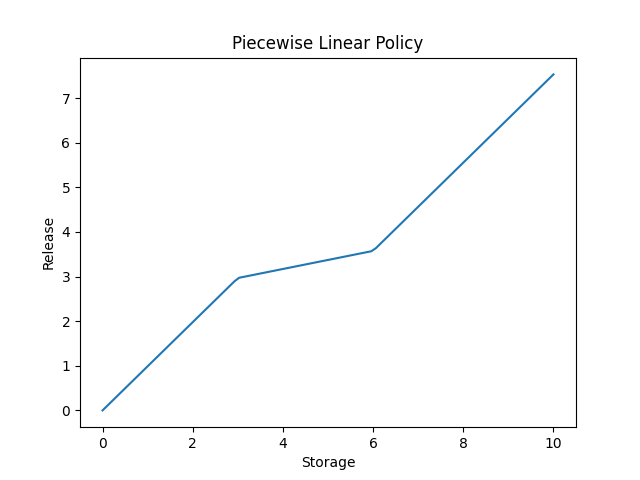
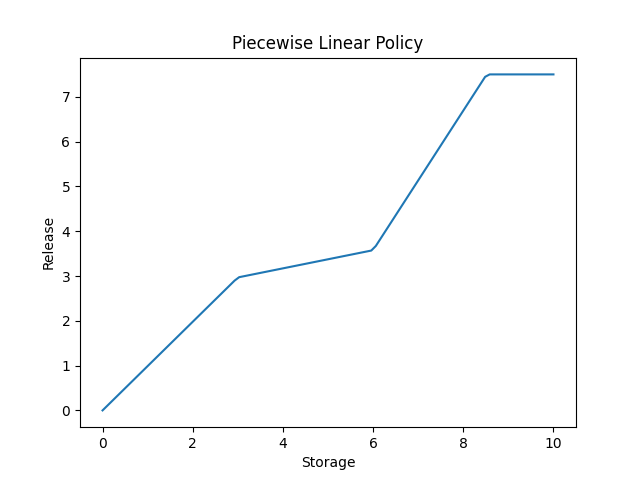
Minor cleanup

diff --git a/methods/policies/linear.py b/methods/policies/linear.py
@@ -74,24 +74,39 @@ class PiecewiseLinear(AbstractPolicy):
         for i in range(1, self.n_segments):
             prev_x = self.segment_x_bounds[i - 1]
             prev_b = self.segment_intercepts[i - 1]
-            self.segment_intercepts.append(prev_b + self.segment_slopes[i - 1] * (self.segment_x_bounds[i] - prev_x))
+            x_delta = self.segment_x_bounds[i] - prev_x
+            b = prev_b + self.segment_slopes[i - 1] * (x_delta)
+            self.segment_intercepts.append(b)
 
-
-    def evaluate(self, S_t):
+    def evaluate(self, X):
         """
         Evaluate the policy function at a given storage level.
 
         Args:
-            S_t (float): The current storage level.
+            X (float): The current storage level.
 
         Returns:
             float: The computed release.
         """
+        segment_idx = None
         for i in range(self.n_segments):
-            if i == self.n_segments - 1 or S_t < self.segment_x_bounds[i + 1]:
-                return self.segment_slopes[i] * (S_t - self.segment_x_bounds[i]) + self.segment_intercepts[i]
+            if X >= self.segment_x_bounds[i] and X < self.segment_x_bounds[i + 1]:
+                segment_idx = i
+                break
+            elif X >= self.Reservoir.capacity:
+                segment_idx = self.n_segments - 1
+                break
+        if segment_idx is None:
+            msg = f"No segment index found for storage {X}."
+            msg += f"Storage bounds: {self.segment_x_bounds}"
+            raise ValueError(msg)
+
+        # calculate release
+        x_delta = X - self.segment_x_bounds[segment_idx]
+        release = self.segment_slopes[segment_idx] * x_delta + self.segment_intercepts[segment_idx]
+
+        release = self.enforce_constraints(release)
         
-        release = self.enforce_constraints(self.Reservoir.release_max)
         return release 
 
 
@@ -113,10 +128,9 @@ class PiecewiseLinear(AbstractPolicy):
         else:
             S_t = self.Reservoir.storage_array[timestep - 1]
 
-        release = self.evaluate(S_t)
+        release = self.evaluate(X = S_t)
         release = self.enforce_constraints(release)
         release = min(release, S_t + I_t)
-
         return release
 
     def plot(self, fname="PiecewiseLinearPolicy.png"):

diff --git a/methods/policies/rbf.py b/methods/policies/rbf.py
@@ -12,7 +12,31 @@ class RBF(AbstractPolicy):
     
     def parse_policy_params(self):
         pass
-    
-    def get_release(self, timestep):
+
+    def evaluate(self, X):
+        """
+        Evaluate the policy function.
+
+        Args:
+            X (np.array): Policy input data.
+
+        Returns:
+            float: The computed release.
+        """
         pass
     
+    def get_release(self, timestep):
+        
+        # Get X data
+        X = np.array([])
+        
+        # Compute release
+        release  = self.evaluate(X)
+        
+        # Enforce constraints (defined in AbstractPolicy)
+        release = self.enforce_constraints(release)
+        
+        return release
+
+    def plot(self):
+        pass

diff --git a/example_run.py b/example_run.py
@@ -4,13 +4,21 @@ from methods.reservoir.model import Reservoir
 # Define the inflow and demand timeseries
 inflow = np.array([1, 2, 3, 4, 5])
 
+# Sets of test parameters
+test_params = {
+    "PiecewiseLinear": [3, 0.3, 0.6, 0.78, 0.2, 1.0],
+    "RBF": [],
+    "STARFIT": []
+}
+
+test_policy = "PiecewiseLinear"
+
 # Define the reservoir
 reservoir = Reservoir(
     inflow = inflow,
     capacity = 10,
-    policy_type = "PiecewiseLinear",
-    policy_options = None,
-    policy_params = [3, 0.3, 0.6, 0.78, 0.2, 0.78],
+    policy_type = test_policy,
+    policy_params = test_params[test_policy],
     release_min = 0,
     release_max = 7.5,
     initial_storage = None

diff --git a/methods/policies/abstract_policy.py b/methods/policies/abstract_policy.py
@@ -52,7 +52,7 @@ class AbstractPolicy(ABC):
             release (float): The computed release.
 
         Returns:
-            float: The release after enforcing constraints.
+            float: The release after enforcing max/min constraints.
         """
         return max(self.Reservoir.release_min, min(self.Reservoir.release_max, release))
 
@@ -62,6 +62,9 @@ class AbstractPolicy(ABC):
         """
         Get the release for the current timestep,
         based on state information from the Reservoir object.
+        
+        Uses the evaluate method to compute the release,
+        then enforces constraints on the release.
         """
         pass
     

diff --git a/methods/policies/starfit.py b/methods/policies/starfit.py
@@ -12,10 +12,20 @@ class STARFIT(AbstractPolicy):
     
     def parse_policy_params(self):
         pass
-    
+
+
     def get_release(self, timestep):
         # access inflow, demand, storage, and capacity from Reservoir object
         I_t = self.Reservoir.inflow_array[timestep]
-        S_t = self.Reservoir.storage_array[timestep]
+        S_t = self.Reservoir.storage_array[timestep-1]
 
+        # Compute release
+        release = None
+        
+        # Enforce constraints (defined in AbstractPolicy)
+        release = self.enforce_constraints(release)
+
+        return release
+    
+    def plot(self):
         pass

diff --git a/methods/reservoir/model.py b/methods/reservoir/model.py
@@ -7,7 +7,6 @@ class Reservoir():
                  inflow, 
                  capacity,
                  policy_type,
-                 policy_options,
                  policy_params,
                  release_min = None,
                  release_max = None,
